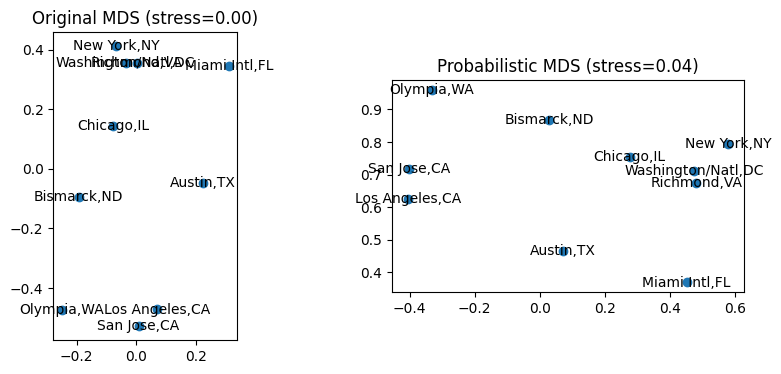
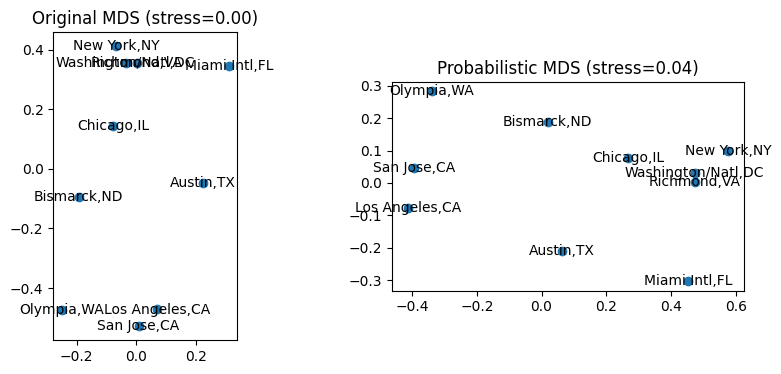
Minor change config fixed points cities_us_toy

diff --git a/config.py b/config.py
@@ -556,10 +556,10 @@ pre_config = {
             std=False,
             pca=None,
             fixed_points=[
-                (0, [0.6, 0.8]),  # New York
+                (0, [0.6, 0.8 - 0.7]),  # New York
                 # (6, [-0.45, 1.0]),  # Olympia
                 # (5, [0.05, 0.45]),  # Austin
-                (2, [-0.43, 0.62]),  # Los Angeles
+                (2, [-0.43, 0.62 - 0.7]),  # Los Angeles
             ],
             ### params for MDS-jax
             # epochs_mds=10,
